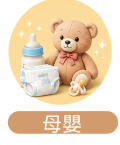
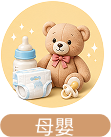
feat: 首頁分類補齊12項橫滑磁貼,新版圓形樣式素材入庫並修正3處標籤文字 (fb#12)

diff --git a/design/首页.dc.html b/design/首页.dc.html
@@ -95,6 +95,13 @@ input::placeholder{color:#9db1c7}
       <a href="分类.dc.html" class="shrink-0"><img src="assets/cat-baby.png" alt="母嬰" class="w-[76px] h-auto"></a>
       <a href="分类.dc.html" class="shrink-0"><img src="assets/cat-anime.png" alt="動漫周邊" class="w-[76px] h-auto"></a>
       <a href="分类.dc.html" class="shrink-0"><img src="assets/cat-books.png" alt="書籍影音" class="w-[76px] h-auto"></a>
+      <a href="分类.dc.html" class="shrink-0"><img src="assets/cat-game.png" alt="遊戲" class="w-[76px] h-auto"></a>
+      <a href="分类.dc.html" class="shrink-0"><img src="assets/cat-3c.png" alt="3C數碼" class="w-[76px] h-auto"></a>
+      <a href="分类.dc.html" class="shrink-0"><img src="assets/cat-home.png" alt="居家生活" class="w-[76px] h-auto"></a>
+      <a href="分类.dc.html" class="shrink-0"><img src="assets/cat-beauty.png" alt="美妝保養" class="w-[76px] h-auto"></a>
+      <a href="分类.dc.html" class="shrink-0"><img src="assets/cat-food.png" alt="食品保健" class="w-[76px] h-auto"></a>
+      <a href="分类.dc.html" class="shrink-0"><img src="assets/cat-sport.png" alt="運動戶外" class="w-[76px] h-auto"></a>
+      <a href="分类.dc.html" class="shrink-0"><img src="assets/cat-hobby.png" alt="興趣收藏" class="w-[76px] h-auto"></a>
     </div>
   </section>
 
